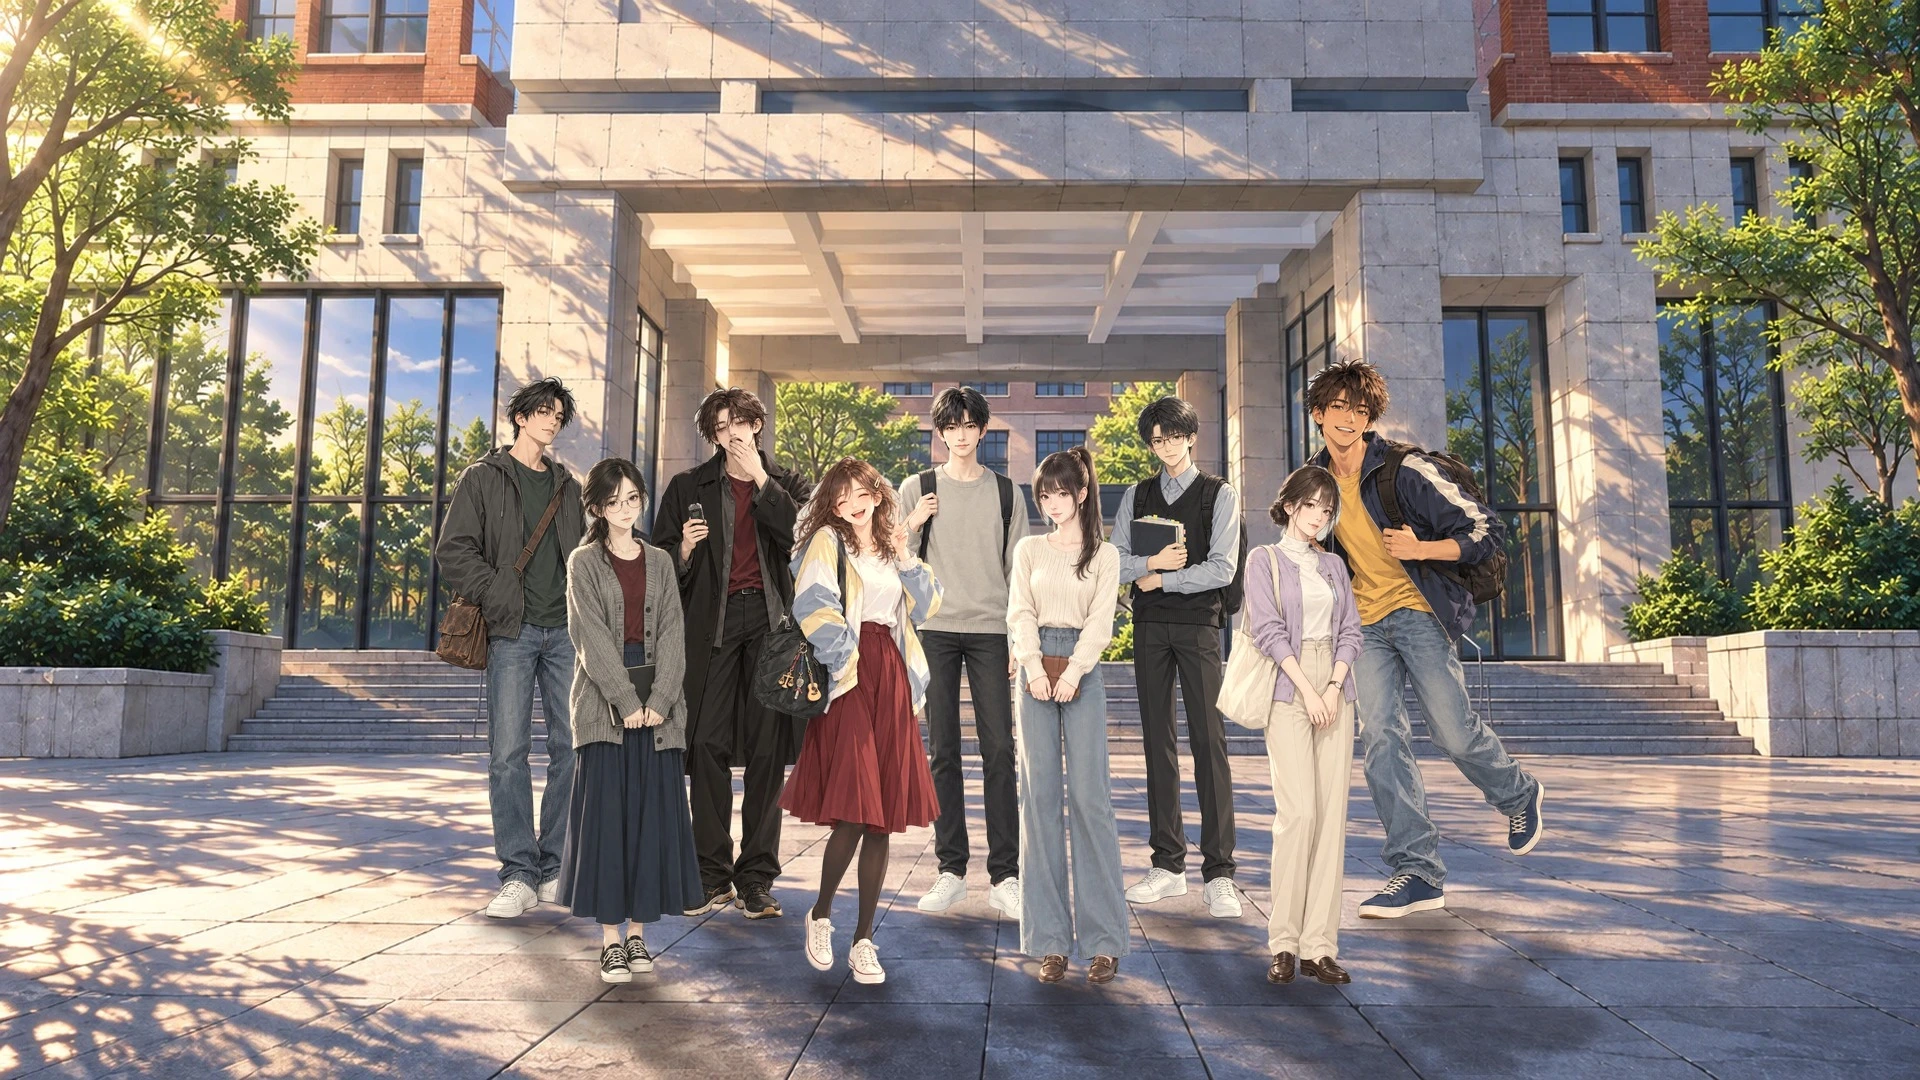
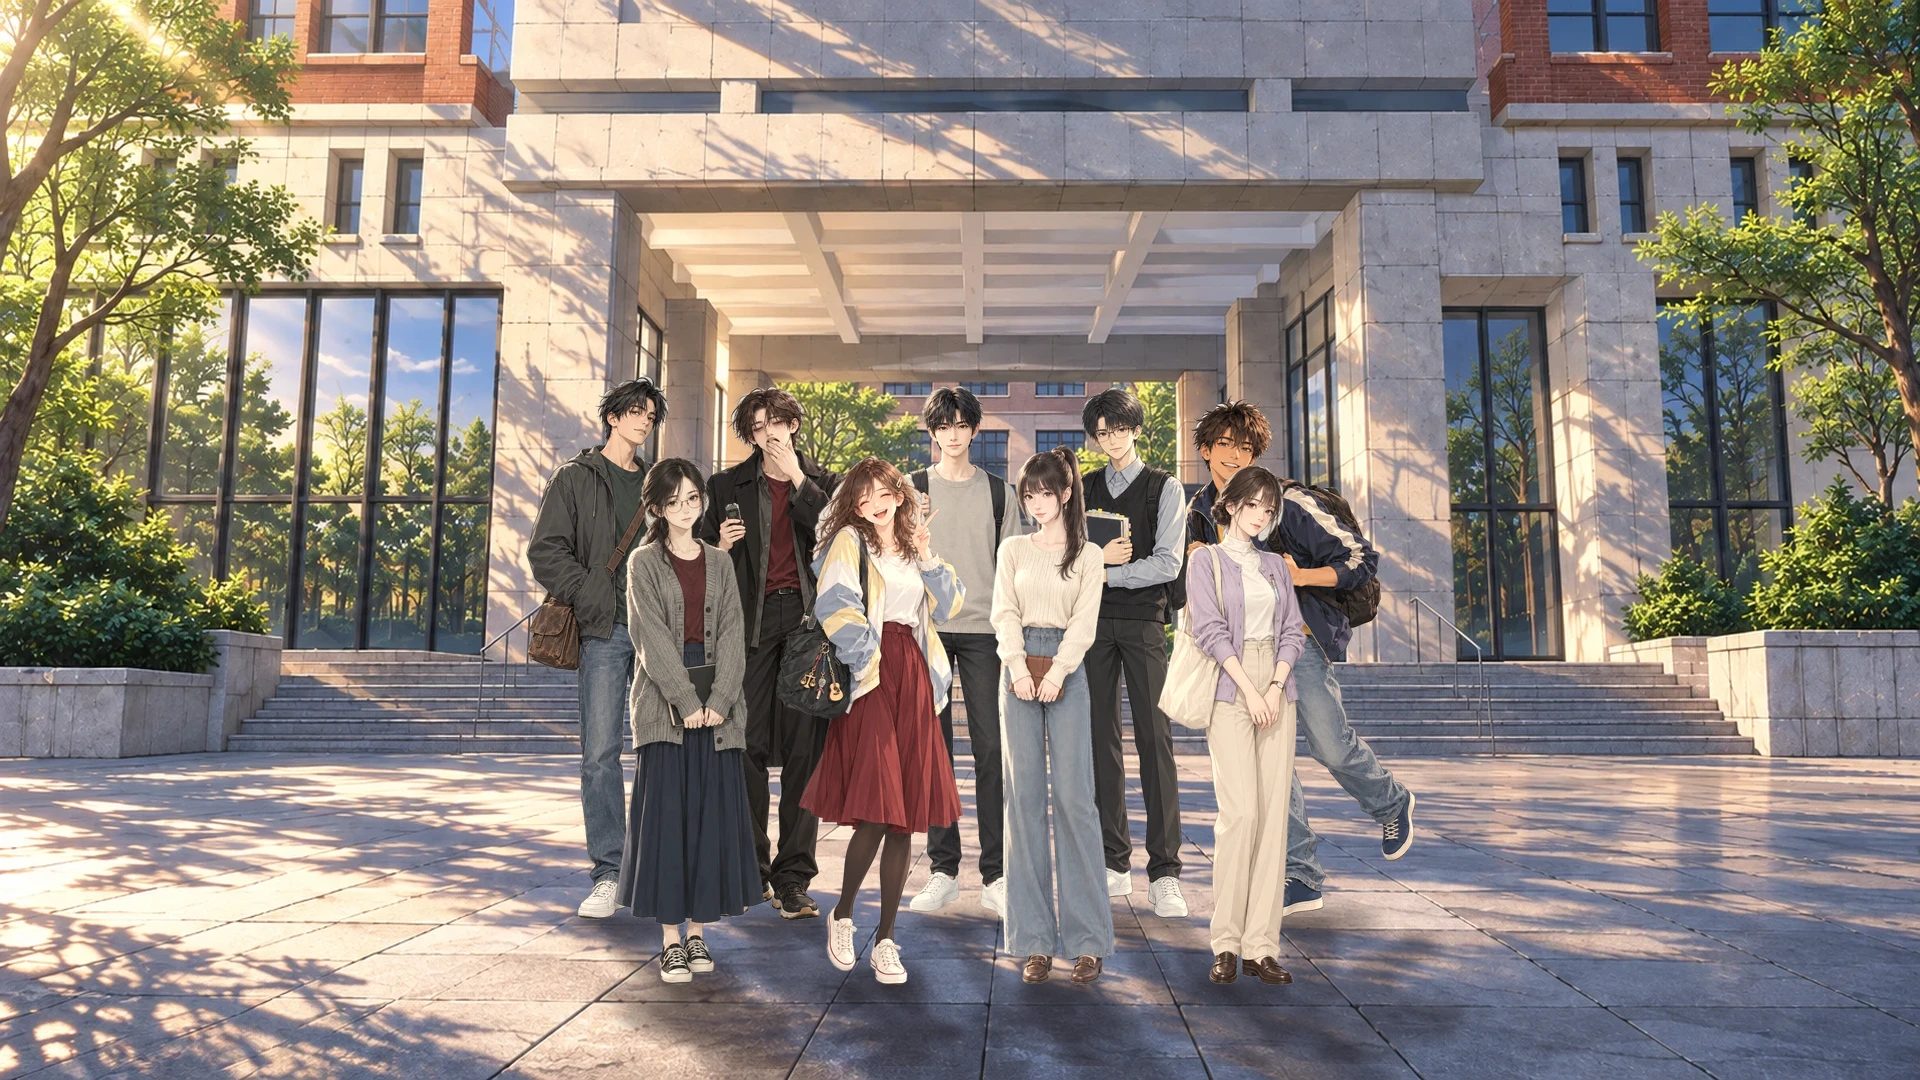
BCG-46 期末合照第二版：阿哲縮小、柏翰放大、九個人站近（使用者 01:2x 意見）
Claude-Session: https://claude.ai/code/session_01J1g2TPcPzWrihXSY2WvseV

Changed region(s): [[0.2188, 0.3361, 0.8438, 1.0], [0.5, 0.9472, 0.5312, 1.0]]

diff --git a/docs/story_planning/cg_approved/parts_cg69/tools/compose.py b/docs/story_planning/cg_approved/parts_cg69/tools/compose.py
@@ -7,8 +7,8 @@ pxcm_front=540/166.0
 back_k=0.94
 FRONT_Y=985; BACK_Y=920
 # (file, height cm, center x, row, extra scale)
-back=[('cg69_mingxuan',178,520,1.0),('cg69_youchen',175,745,1.0),('cg69_player',175,960,1.0),('cg69_bohan',172,1175,1.0),('cg69_zhe',178,1420,1.04)]
-front=[('cg69_peishan',163,630,1.0),('cg69_yu',163,850,1.0),('cg69_heroine_01',166,1068,1.0),('cg69_xinci',160,1290,1.0)]
+back=[('cg69_mingxuan',178,612,1.0),('cg69_youchen',175,782,1.0),('cg69_player',175,952,1.0),('cg69_bohan',172,1120,1.015),('cg69_zhe',178,1300,0.965)]
+front=[('cg69_peishan',163,690,1.0),('cg69_yu',163,872,1.0),('cg69_heroine_01',166,1052,1.0),('cg69_xinci',160,1232,1.0)]
 def warm(im):
     a=np.asarray(im).astype(np.float32)
     a[...,0]*=1.035; a[...,1]*=1.01; a[...,2]*=0.95

diff --git a/docs/story_planning/CG_正式製作清單.md b/docs/story_planning/CG_正式製作清單.md
@@ -82,7 +82,7 @@
 | CG-11 | 理由欄 | 大三上或大四上 | 戀愛路線 | 以安的戀愛線：她答應的玩家（`ev_an_reason_column`） | 齊（06） | **已生成、BB 檢查通過**（2026-10-14，`cg_approved/`；手帳空白處的座標給遊戲疊字） | — | 以安戀愛線（`AA_113` 第 6 節）；主要人物劇情 |
 | CG-12 | 分一點時間 | 大四上 | 戀愛路線 | 語彤事件 16 的戀愛分支（說出口的那一刻） | 齊（06） | **已生成、BB 檢查通過**（2026-10-14，`cg_approved/`） | — | 語彤事件 16；主要人物劇情 |
 | CG-14 | 中秋的河濱：火一直熄（生活 CG） | 大一上 | **共通** | 去河濱烤肉的玩家（`ev_mid_autumn_bbq`，第 5 週六；放在「你被分到顧火。火一直熄。」） | 齊（`zhe.webp`） | **已生成、BB 檢查通過**（2026-10-14 第十六組，`cg_approved/cg_midautumn_riverside.webp`） | — | **已實作**（開發分支），圖通過就能接 |
-| BCG-46 | 期末考完的合照（法律系 9 人） | 大一上 | 條件式（相簿） | 大一上期末最後一科考完，和其他八人裡至少五位 `FRIEND` 以上，相簿才存（`BB_132` 第 69 組） | 齊（06 的祐廷、以安＋七位配角的參考圖） | **BB 合成完成，READY_FOR_REVIEW**（2026-10-17 00:0x：九人一人一張＋穿堂背景，BB-B 去背、照站位和身高合成，`cg_approved/cg_class_photo_y1.webp` 1920×1080；做法和腳本在 `cg_approved/parts_cg69/`）；等使用者看過再交 LAWWW-B | — | 新畫面，不是新事件（拍完去麵店，`AA_71` 2-13）；構圖 `BB_118` 5-1 |
+| BCG-46 | 期末考完的合照（法律系 9 人） | 大一上 | 條件式（相簿） | 大一上期末最後一科考完，和其他八人裡至少五位 `FRIEND` 以上，相簿才存（`BB_132` 第 69 組） | 齊（06 的祐廷、以安＋七位配角的參考圖） | **BB 合成第二版，READY_FOR_REVIEW**（2026-10-17 01:2x：使用者看第一版說阿哲太大、柏翰太小、站太開，三件都改了）；第一版（2026-10-17 00:0x：九人一人一張＋穿堂背景，BB-B 去背、照站位和身高合成，`cg_approved/cg_class_photo_y1.webp` 1920×1080；做法和腳本在 `cg_approved/parts_cg69/`）；等使用者看過再交 LAWWW-B | — | 新畫面，不是新事件（拍完去麵店，`AA_71` 2-13）；構圖 `BB_118` 5-1 |
 | BCG-47 | 經濟系宿營的合照（7 人自己拍；使用者 00:5x 拿掉其他新生） | 經濟系大一上 | 條件式（去宿營的玩家） | E15 宿營（2024/11/22～24），字卡之後、AA 的三句旁白之前（`AA_154` A54；夜遊、寢室兩段拿掉） | 齊（祐廷 06＋可昕、阿勳、韋綸、家豪、品妤、唐睿的參考圖） | **通過，`ART_APPROVED`（使用者 2026-10-17 01:2x：「七個人自己拍的可以」）**；第二版（2026-10-17 01:0x：使用者 00:5x 看第一版，後面的學生像在拍自己的合照，定「它們自己拍就好啦」；`BB_132` E4c 用改圖拿掉台階上的學生，七個人重新合成）。第一版（作廢）：（2026-10-17 00:5x：七人一人一張＋營地門口背景，BB-B 去背、照站位和身高合成，`cg_approved/cg_econ_camp.webp` 1920×1080；做法在 `cg_approved/parts_econcamp/`）；等使用者看過再交 LAWWW-B（換掉 `econ_camp` 的暫代） | — | `BB_132` 第 71 組；取代作廢的 `cg_law_camp_squad` |
 | CG-15 | 頂樓的跨年（生活 CG） | 大一上（大二上的頂樓版共用） | **共通** | 去宿舍頂樓的玩家（`ev_nye_roof`；放在第一句旁白；和可昕在河堤跨年的版本不放） | 齊（`zhe.webp`） | **已生成、BB 檢查通過**（2026-10-14 第十六組，`cg_approved/cg_nye_rooftop.webp`；遠方一塊招牌 BB 柔化） | — | **已實作**（開發分支），圖通過就能接 |
 | CG-16 | 起立：刑訴的法院旁聽（生活 CG） | 大三上 | **共通** | 所有玩家（第 7 週；放在旁白「審判長進來。你跟著大家站起來。」，`BB_102` 大三上） | 齊（`prof_lin.webp`；同學都是背影） | **已生成、BB 檢查通過**（2026-10-14 第十八組，`cg_approved/cg_court_gallery_rise.webp`；書記官的鑲邊 BB 改成黑色） | — | 交接包 v4 第 7 週 |

diff --git a/docs/story_planning/cg_approved/parts_cg69/README.md b/docs/story_planning/cg_approved/parts_cg69/README.md
@@ -17,7 +17,16 @@
 - 穿堂背景（`cg69_bg`）第一版退回：有雪（臺北不會下雪）、建築是哥德式拱門，不像遊戲裡的霖澤館。提示詞已改（`BB_132` C5），附遊戲截圖 `art_reference/linze_portal_game_ref.jpg` 重新生成。
 | `cg69_bg.webp` | 穿堂背景 | C5 | 通過（2026-10-17 00:0x） | 修改版：沒有雪、綠樹；方形穿堂、灰石＋紅磚兩翼、後面看得到連廊和中庭，和遊戲裡的霖澤館一致；光從左上方；1672×941 |
 
-## 合成（2026-10-17 00:0x，BB-B）
+## 合成第二版（2026-10-17 01:2x，BB-B，**用這一版**）
+
+- 使用者 01:2x 看第一版：「最右邊的人黃色衣服的太大隻了吧　抱著的男生太小隻　大家站這麼開?」
+- 改了三件：
+  - **阿哲**（芥末黃 T）：拿掉原本放大的 1.04，再縮 0.965。他是往前衝的姿勢，原本又在最外面，看起來特別大；現在站到芯慈後面。
+  - **柏翰**（抱著書）：原圖的身體比例比較長，照身高縮放以後頭和肩膀都偏小；放大 1.015，頭頂和祐廷差不多高。
+  - **站近**：後排間距從約 225 px 改 170 px，前排從約 220 px 改 180 px，前排站在後排兩人中間，整群在畫面正中間。
+- 成品：`../cg_class_photo_y1.webp`，**READY_FOR_REVIEW**。`tools/compose.py` 已換成這一版的站位。
+
+## 合成第一版（2026-10-17 00:0x，BB-B，作廢）
 
 - 成品：`../cg_class_photo_y1.webp`（1920×1080），**READY_FOR_REVIEW**，等使用者看。
 - 做法（`tools/`）：
